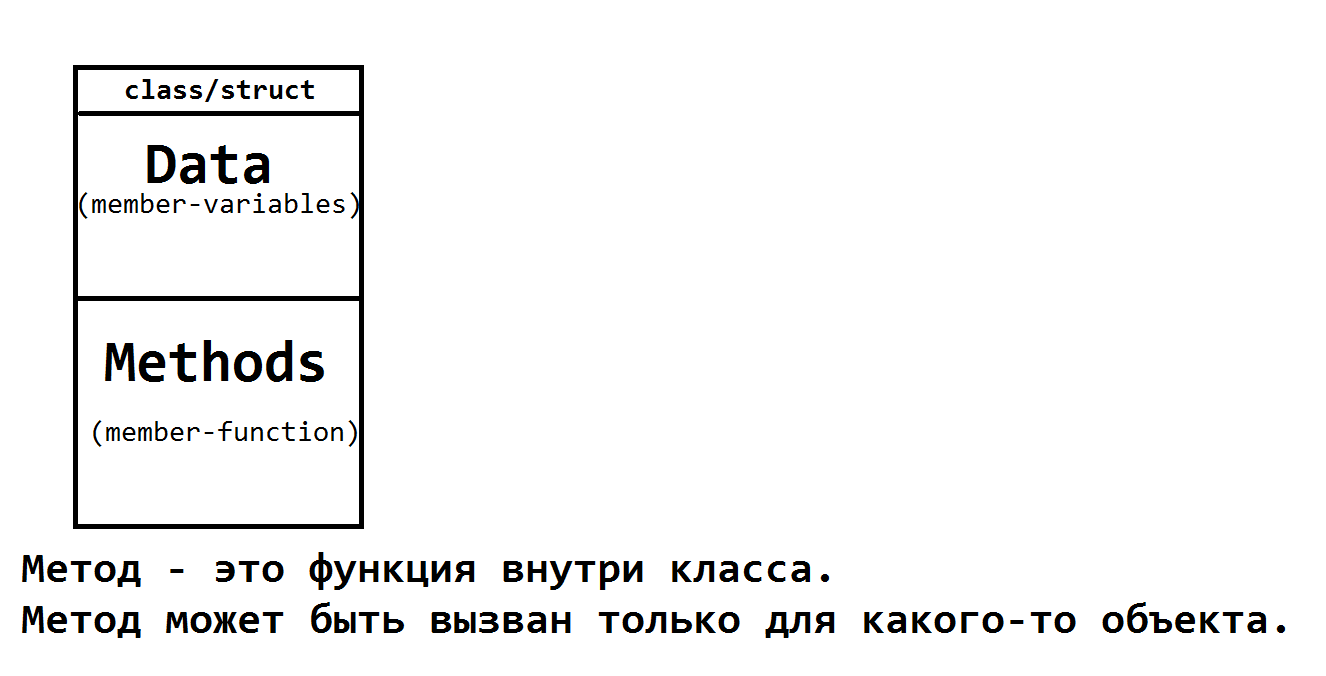
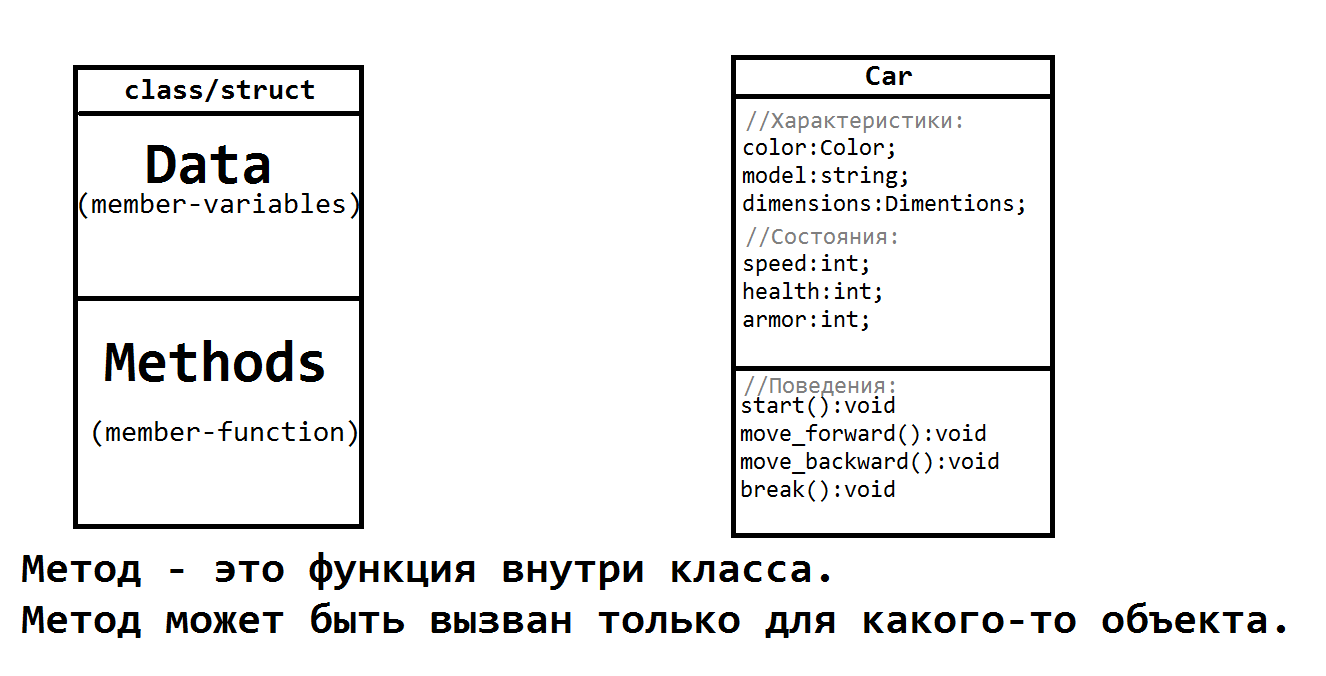
Encapsulation

Changed region(s): [[0.5256, 0.0621, 0.8039, 0.8077]]

diff --git a/IntroductionToOOP/IntroductionToOOP/main.cpp b/IntroductionToOOP/IntroductionToOOP/main.cpp
@@ -1,8 +1,61 @@
-#include<iostream>
+#include<iostream>
 using namespace std;
+
+class Point
+{
+	//Создавая структуру или класс мы создаем новый тип данных
+	//Классы и структуры еще называют пользовательскими типами данных
+	//					КЛАСС - ЭТО ТИП ДАННЫХ!!!
+	//					СТРУКТУРА - ЭТО ТИП ДАННЫХ!!!
+	double x;
+	double y;
+public:
+};
 
 void main()
 {
 	setlocale(LC_ALL, "Russian");
-	cout << "Hello OOP" << endl;
+	int a;	//Объявление переменной 'a' типа 'int'
+	Point A;//Объявление переменной 'A' типа 'Point'
+			//Создание объекта 'A' структуры 'Point'
+			//Создание экземпляра 'A' структуры 'Point'
+			//Объекты классов и структур еще называют экземплярами классов и структур.
+
+	A.x = 2;
+	A.y = 3;
+	cout << A.x << "\t" << A.y << endl;
+
+	Point* pA = &A;	//https://ru.wikipedia.org/wiki/%D0%92%D0%B5%D0%BD%D0%B3%D0%B5%D1%80%D1%81%D0%BA%D0%B0%D1%8F_%D0%BD%D0%BE%D1%82%D0%B0%D1%86%D0%B8%D1%8F
+	cout << pA->x << "\t" << pA->y << endl;
 }
+
+/*
+--------------------------------------------------------------
+.  - Оператор прямого доступа (Point operator) 
+	 используется для доступа к полям объекта по ИМЕНИ объекта.
+
+-> - Оператор косвенного доступа (Arrow operator)
+	 используется для доступа к полям объекта по АДРЕСУ объекта.
+--------------------------------------------------------------
+*/
+
+/*
+--------------------------------------------------------------
+				OOP concepts:
+1. Encapsulation - сокрытие определенной части класса от внешнего мира.
+	Модификаторы доступа
+		private:	закрытые поля, доступны только внутри класса
+		public:		открытые поля, доступны из любого места программы
+		protected:	защищенные поля, доступны только внутри класса, и его дочерних классов.
+					используется только при наследовании.
+
+	get/set-методы  используются для доступа к закрытым переменным в классе
+		get (взять, получить) используются для доступа к закрытым переменным на чтение, т.е.,
+							  позволяют получить значение закрытой переменной.
+		set (задать, установить) используются для доступа к закрытым перемееным на запись, т.е.,
+							  позволяют задать значение закрытой переменной.
+							  Кроме того, set-методы обеспечивают фильтрацию данных.
+2. Inheritance;
+3. Polymorphism;
+--------------------------------------------------------------
+*/
